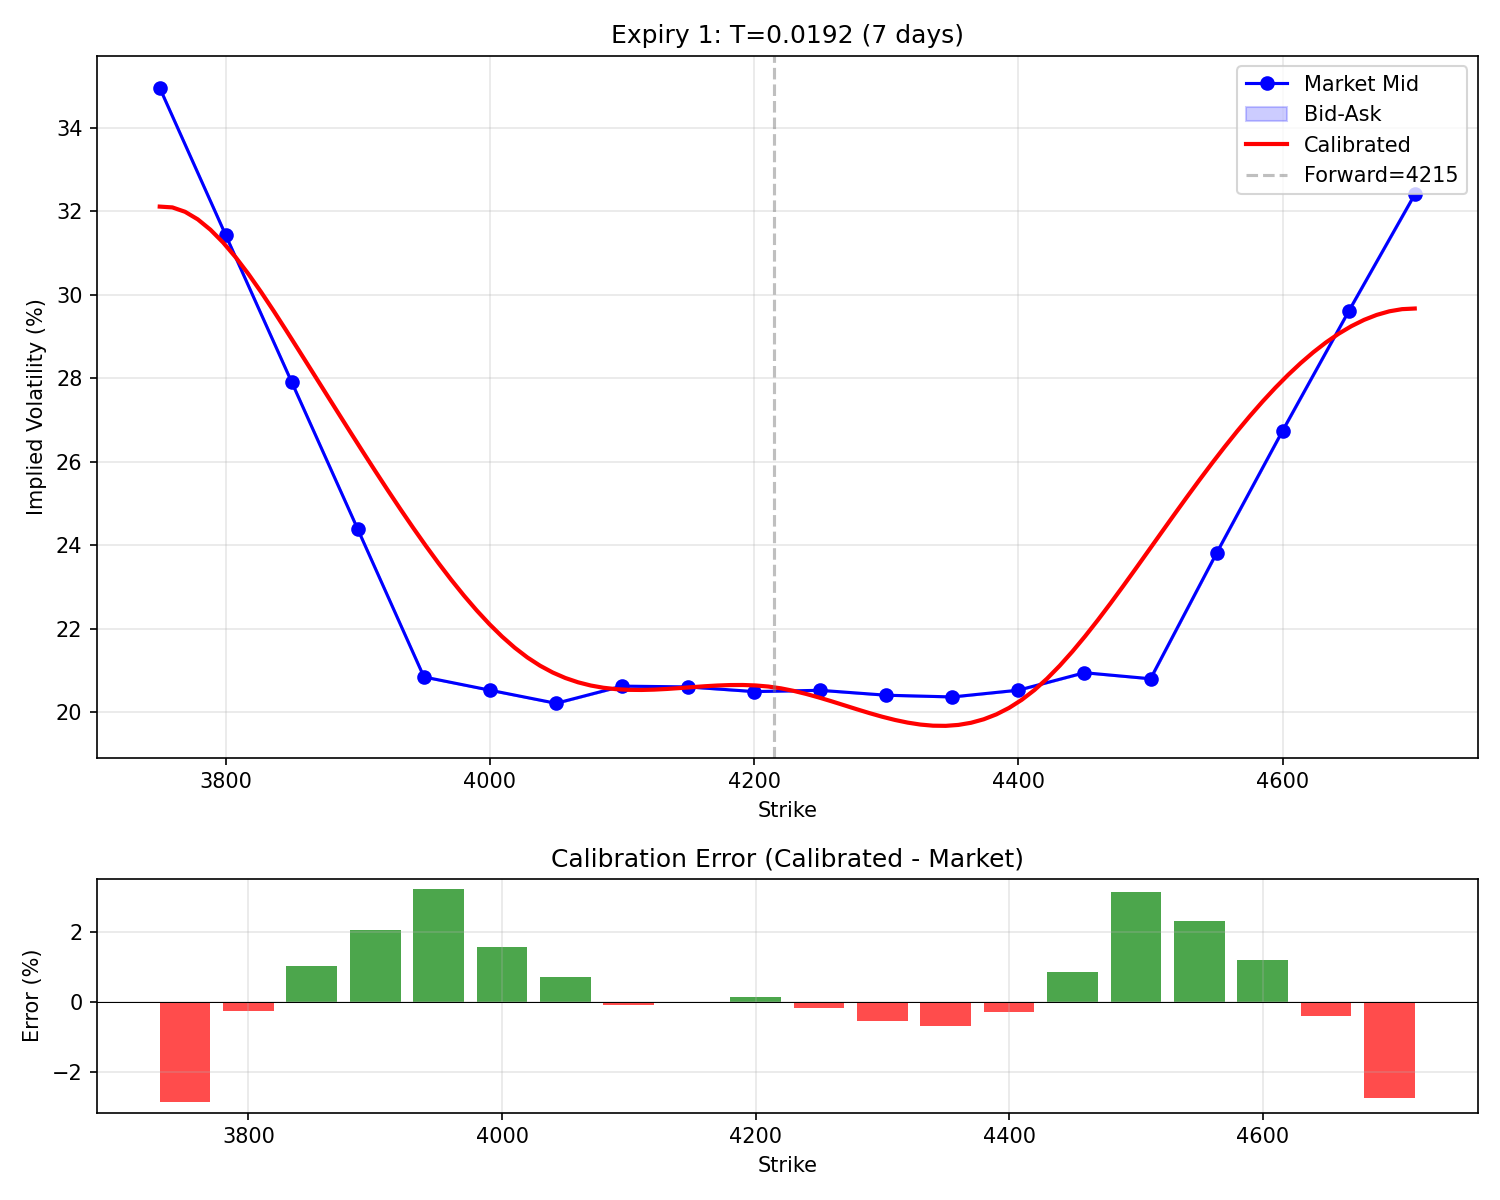
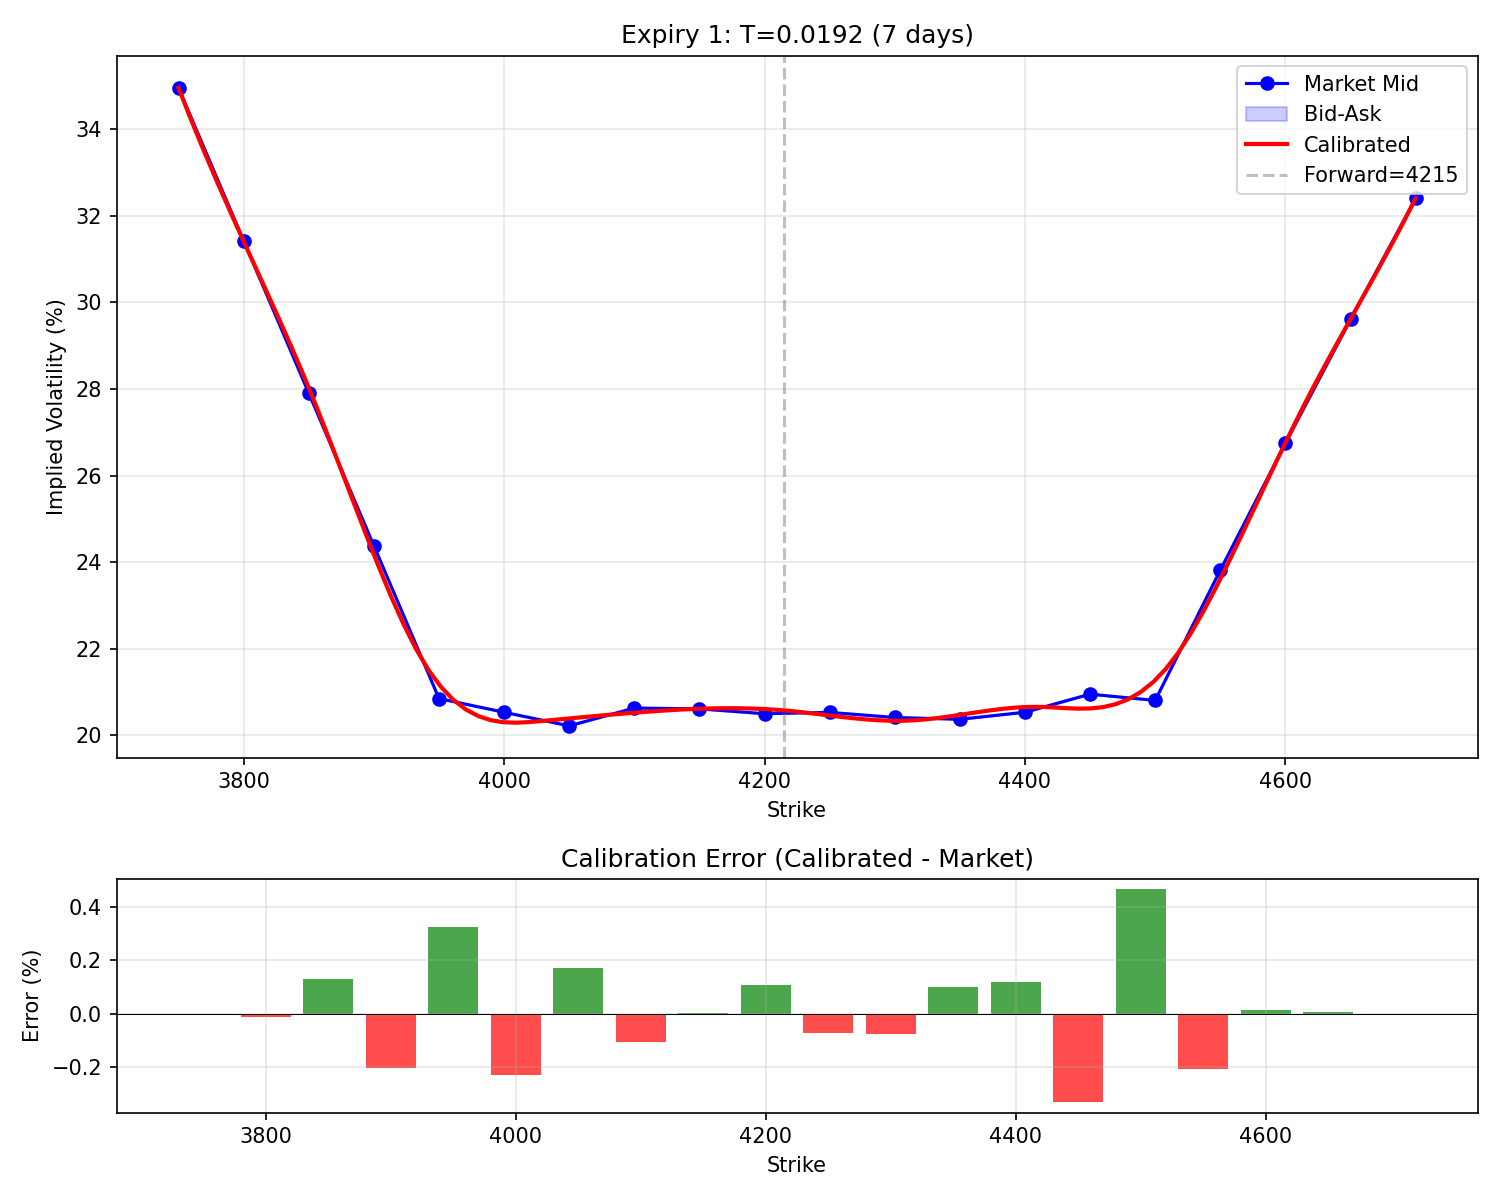
Fix debug script to use default CVIConfig

diff --git a/scripts/debug_single_expiry.py b/scripts/debug_single_expiry.py
@@ -62,13 +62,7 @@ print()
 
 # Run calibration
 print("=== Calibration ===")
-config = CVIConfig(
-    n_knots=11,
-    z_range=8.0,
-    regularization=0.05,
-    calendar_penalty=1.0,
-    max_iterations=2,
-)
+config = CVIConfig()  # Use defaults
 print(f"Config: n_knots={config.n_knots}, z_range={config.z_range}, reg={config.regularization}")
 print(f"        calendar_penalty={config.calendar_penalty}, max_iter={config.max_iterations}")
 print()
